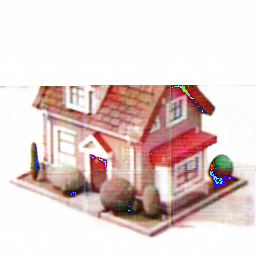
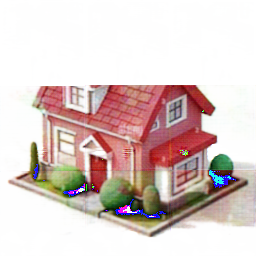
test

Changed region(s): [[0.0312, 0.3125, 1.0, 0.9375], [0.0, 0.3125, 0.0312, 0.3438]]

diff --git a/generate.py b/generate.py
@@ -57,5 +57,5 @@ def generate_image(input_img_path, genre, model_path, output_image_path):
     data.save(final_path)
 
 if __name__=="__main__":
-    generate_image('HOUSE.jpg', genre='real_world', model_path='bigmodel4.pth', output_image_path="bigmode4house.jpg")
+    generate_image('HOUSE.jpg', genre='lego', model_path='model14.pth', output_image_path="bigmode4house.jpg")
     #generate_image('ORIGINAL.jpg', genre='lego', model_path='bad_discriminator.pth', output_image_path="bad_discriminator.jpg")

diff --git a/train.py b/train.py
@@ -28,6 +28,7 @@ def train(epochs=50, save=True, load=True, model_path='model6.pth'):
         k = 0
         for i, data in enumerate(images_train_loader):
             real_a, real_b = data['lego_image'], data['real_image']
+            print(real_a.shape)
             if device == 'cuda':
                  real_a = real_a.cuda()
                  real_b = real_b.cuda()
